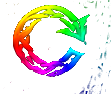
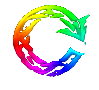
Keep only single connected Bifrost arrow component (v3.58)

diff --git a/index.html b/index.html
@@ -69,7 +69,7 @@ if ('serviceWorker' in navigator) {
 * { box-sizing: border-box; margin: 0; padding: 0; -webkit-tap-highlight-color: transparent; }
 html, body {
   width: 100%; height: 100%; overflow: hidden;
-  background: #140d08 url('./bg_norse.jpg?v=64') center/100% 100% no-repeat;
+  background: #140d08 url('./bg_norse.jpg?v=68') center/100% 100% no-repeat;
   font-family: Georgia, 'Times New Roman', serif;
   color: #F8F1E5;
 }
@@ -746,13 +746,13 @@ footer *, .footer *, #footer *, .credits *, #credits * {
   transform: scale(0.92);
 }
 #bifrostGridBtn {
-  background: url('./bifrost_arrow.png?v=1') center/92% 92% no-repeat;
+  background: url('./bifrost_arrow.png?v=5') center/92% 92% no-repeat;
   box-shadow: none !important;
   border: none !important;
   border-radius: 0 !important;
 }
 #bifrostGridBtn.update-ready {
-  background: url('./bifrost_arrow.png?v=1') center/92% 92% no-repeat;
+  background: url('./bifrost_arrow.png?v=5') center/92% 92% no-repeat;
   box-shadow: none !important;
   animation: bifrostUpdateGlow 2.4s linear infinite;
 }

diff --git a/sw.js b/sw.js
@@ -1,5 +1,5 @@
-const UI_CACHE = 'old-norse-ui-v3.57';
-const DB_CACHE = 'old-norse-db-v3.57';
+const UI_CACHE = 'old-norse-ui-v3.58';
+const DB_CACHE = 'old-norse-db-v3.58';
 
 self.addEventListener('install', e => {
   self.skipWaiting();
